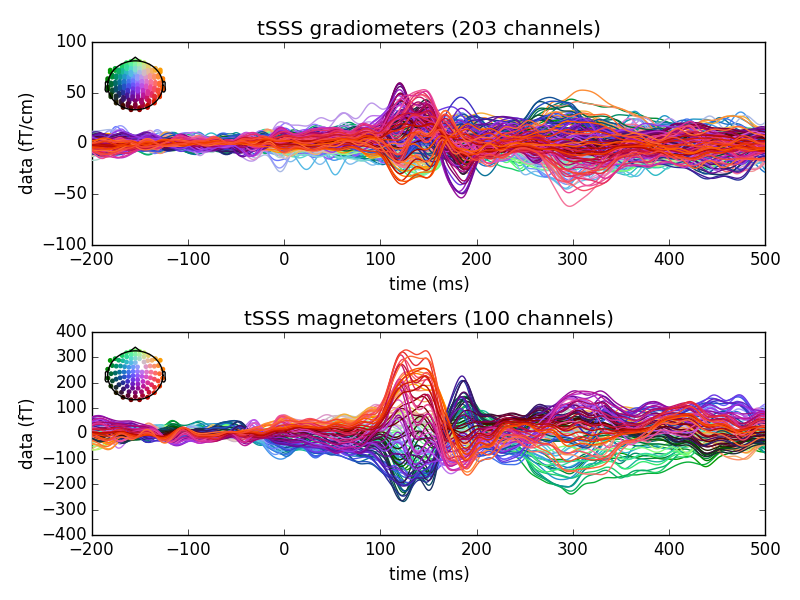
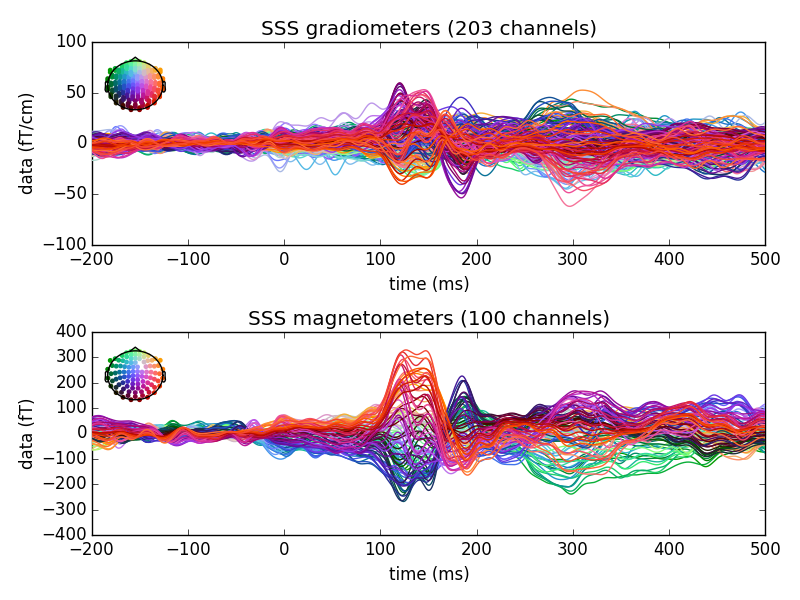
Make install

Changed region(s): [[0.2812, 0.51, 0.7812, 0.57], [0.3125, 0.03, 0.75, 0.06]]

diff --git a/auto_examples/plot_maxfilter.html b/auto_examples/plot_maxfilter.html
@@ -245,8 +245,8 @@ Applying baseline correction (mode: mean)
                    <span class="n">titles</span><span class="o">=</span><span class="p">{</span><span class="s1">&#39;grad&#39;</span><span class="p">:</span> <span class="s1">&#39;Gradiometers before SSS&#39;</span><span class="p">,</span>
                            <span class="s1">&#39;mag&#39;</span><span class="p">:</span> <span class="s1">&#39;Magnetometers before SSS&#39;</span><span class="p">})</span>
 <span class="n">evoked_after</span><span class="o">.</span><span class="n">plot</span><span class="p">(</span><span class="n">spatial_colors</span><span class="o">=</span><span class="bp">True</span><span class="p">,</span> <span class="n">ylim</span><span class="o">=</span><span class="n">ylim</span><span class="p">,</span>
-                  <span class="n">titles</span><span class="o">=</span><span class="p">{</span><span class="s1">&#39;grad&#39;</span><span class="p">:</span> <span class="s1">&#39;tSSS gradiometers&#39;</span><span class="p">,</span>
-                          <span class="s1">&#39;mag&#39;</span><span class="p">:</span> <span class="s1">&#39;tSSS magnetometers&#39;</span><span class="p">})</span>
+                  <span class="n">titles</span><span class="o">=</span><span class="p">{</span><span class="s1">&#39;grad&#39;</span><span class="p">:</span> <span class="s1">&#39;SSS gradiometers&#39;</span><span class="p">,</span>
+                          <span class="s1">&#39;mag&#39;</span><span class="p">:</span> <span class="s1">&#39;SSS magnetometers&#39;</span><span class="p">})</span>
 <span class="n">evoked_sss</span><span class="o">.</span><span class="n">plot</span><span class="p">(</span><span class="n">spatial_colors</span><span class="o">=</span><span class="bp">True</span><span class="p">,</span> <span class="n">ylim</span><span class="o">=</span><span class="n">ylim</span><span class="p">,</span>
                 <span class="n">titles</span><span class="o">=</span><span class="p">{</span><span class="s1">&#39;grad&#39;</span><span class="p">:</span> <span class="s1">&#39;Maxfilter (TM) gradiometers&#39;</span><span class="p">,</span>
                         <span class="s1">&#39;mag&#39;</span><span class="p">:</span> <span class="s1">&#39;Maxfilter (TM) magnetometers&#39;</span><span class="p">})</span>
@@ -261,7 +261,7 @@ Applying baseline correction (mode: mean)
 </li>
 </ul>
 <p><strong>Total running time of the script:</strong>
-(1 minutes 4.672 seconds)</p>
+(1 minutes 6.627 seconds)</p>
 <div class="sphx-glr-download container">
 <a class="reference download internal" href="../_downloads/plot_maxfilter.py"><code class="xref download docutils literal"><span class="pre">Download</span> <span class="pre">Python</span> <span class="pre">source</span> <span class="pre">code:</span> <span class="pre">plot_maxfilter.py</span></code></a></div>
 <div class="sphx-glr-download container">

diff --git a/_downloads/plot_maxfilter.py b/_downloads/plot_maxfilter.py
@@ -58,8 +58,8 @@ evoked_before.plot(spatial_colors=True, ylim=ylim,
                    titles={'grad': 'Gradiometers before SSS',
                            'mag': 'Magnetometers before SSS'})
 evoked_after.plot(spatial_colors=True, ylim=ylim,
-                  titles={'grad': 'tSSS gradiometers',
-                          'mag': 'tSSS magnetometers'})
+                  titles={'grad': 'SSS gradiometers',
+                          'mag': 'SSS magnetometers'})
 evoked_sss.plot(spatial_colors=True, ylim=ylim,
                 titles={'grad': 'Maxfilter (TM) gradiometers',
                         'mag': 'Maxfilter (TM) magnetometers'})
